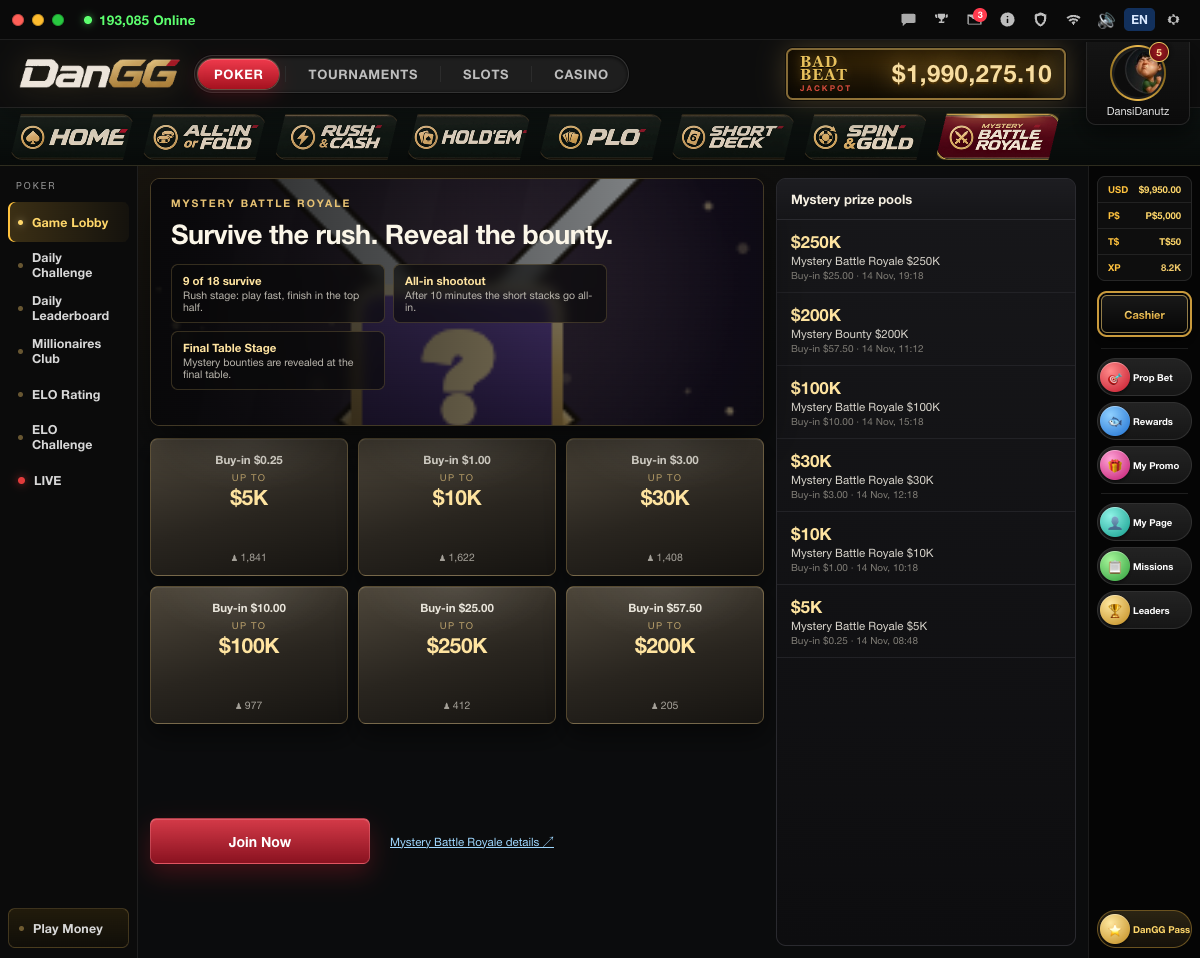
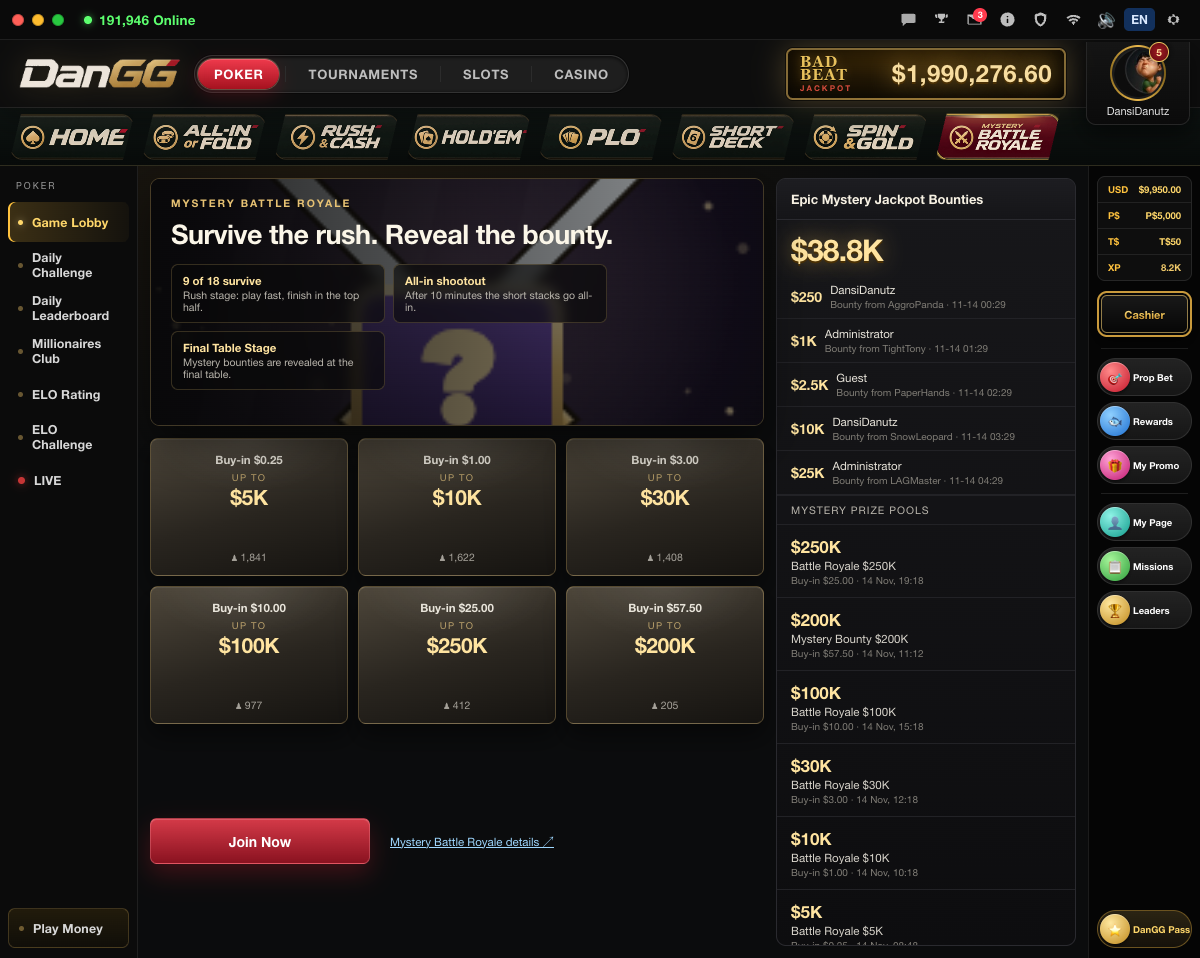
feat(battle): live mystery bounty feed
- GET /api/mystery/feed exposes recent mystery_bounty ledger rows (winner, amount,
  busted player, time) and the all-time total.
- Battle Royale right rail becomes Epic Mystery Jackpot Bounties: total pot + reveal
  rows, with the prize-pool schedule kept underneath; empty state shows pools only.
- New HTTP test for the endpoint; evidence with five seeded reveals at 768/1200/1440.
- 865 tests / 865 pass, tsc and Vite build clean.

diff --git a/app/src/components/BattleLobby.tsx b/app/src/components/BattleLobby.tsx
@@ -12,11 +12,16 @@ const NOTES = [
 export function BattleLobby() {
   const { navigate } = useApp();
   const [events, setEvents] = useState<any[] | null>(null);
+  const [feed, setFeed] = useState<{ total: number; items: any[] }>({ total: 0, items: [] });
 
   useEffect(() => {
     api.tournaments()
       .then((r) => setEvents((r.tournaments || []).filter((t: any) => String(t.mode).toUpperCase() === 'MYSTERY' || /mystery/i.test(t.name))))
       .catch(() => setEvents([]));
+  }, []);
+
+  useEffect(() => {
+    api.mysteryFeed().then(setFeed).catch(() => {});
   }, []);
 
   const groups = useMemo(() => {
@@ -69,7 +74,20 @@ export function BattleLobby() {
       </div>
 
       <aside className="battle-side">
-        <div className="battle-side-head">Mystery prize pools</div>
+        <div className="battle-side-head">Epic Mystery Jackpot Bounties</div>
+        <div className="battle-total">{money(feed.total || 0, true)}</div>
+        {!!feed.items.length && (
+          <div className="battle-feed">
+            {feed.items.map((it, i) => (
+              <div key={i} className="battle-feed-row">
+                <b>{money(it.amount, true)}</b>
+                <span>{it.nick}</span>
+                <small>Bounty from {String(it.memo || '').replace(/^Mystery bounty:\s*/i, '')} · {String(it.created_at).slice(5, 16).replace('T', ' ')}</small>
+              </div>
+            ))}
+          </div>
+        )}
+        <div className="battle-side-sub">Mystery prize pools</div>
         {top.map((t) => (
           <button key={t.id} type="button" className="battle-pool" onClick={() => navigate(`/tournaments?id=${encodeURIComponent(t.id)}`)}>
             <b>{money(t.gtd || 0, true)}</b>

diff --git a/app/src/battle.css b/app/src/battle.css
@@ -33,3 +33,11 @@
 .battle-pool small { color: #7f7c75; font-size: 10px; }
 @media (max-width: 1180px) { .battle { grid-template-columns: minmax(0, 1fr) 250px; } }
 @media (max-width: 900px) { .battle { grid-template-columns: 1fr; grid-template-rows: auto; } .battle-side { grid-column: 1; grid-row: auto; max-height: 300px; } .battle-tiles { grid-template-columns: repeat(3, minmax(0, 1fr)); } }
+
+.battle-total { padding: 12px 14px 6px; color: #ffe4a0; font-size: 30px; font-weight: 900; letter-spacing: -.8px; text-shadow: 0 2px 0 #4a3004, 0 0 22px rgba(255, 202, 88, .45); }
+.battle-feed { display: flex; flex-direction: column; }
+.battle-feed-row { display: grid; grid-template-columns: auto minmax(0, 1fr); gap: 2px 8px; padding: 8px 14px; border-bottom: 1px solid #222226; }
+.battle-feed-row b { color: #ffe4a0; font-size: 14px; font-weight: 900; grid-row: 1 / span 2; align-self: center; }
+.battle-feed-row span { color: #e8e4da; font-size: 11.5px; overflow: hidden; text-overflow: ellipsis; white-space: nowrap; }
+.battle-feed-row small { color: #7f7c75; font-size: 10px; }
+.battle-side-sub { position: sticky; top: 41px; z-index: 1; padding: 8px 14px; color: #b9b5ac; font-size: 10.5px; text-transform: uppercase; letter-spacing: 1px; background: #131316; border-block: 1px solid #222226; }

diff --git a/app/src/lib/api.ts b/app/src/lib/api.ts
@@ -292,6 +292,7 @@ export const api = {
   unregisterTourney: (id: string) => request(`/api/tournaments/${id}/unregister`, { method: 'POST' }),
   cashier: () => request<any>('/api/cashier'),
   notifications: (all = false) => request<{ items: any[]; unread: number }>(`/api/notifications${all ? '?all=1' : ''}`),
+  mysteryFeed: () => request<{ total: number; items: any[] }>('/api/mystery/feed'),
   elo: (game: string = 'all') => request<{ leaders: any[]; me: any; game: string }>(`/api/elo${game === 'all' ? '' : '?game=' + encodeURIComponent(game)}`),
   reportPlayer: (targetId: number, reason: string, detail: string, handId?: string) => request<any>('/api/reports', { method: 'POST', body: JSON.stringify({ targetId, reason, detail, handId }) }),
   markNotificationsRead: (keys: string[]) => request<any>('/api/notifications/read', { method: 'POST', body: JSON.stringify({ keys }) }),

diff --git a/app/server/index.js b/app/server/index.js
@@ -1934,6 +1934,17 @@ const server = http.createServer(async (req, res) => {
       return json(res, 200, { winners: rows, mine });
     }
 
+    if (p === '/api/mystery/feed' && req.method === 'GET') {
+      const limit = Math.min(30, Math.max(1, Number(url.searchParams.get('limit')) || 20));
+      const items = db.prepare(`
+        SELECT t.amount, t.memo, t.created_at, u.nick
+        FROM transactions t JOIN users u ON u.id = t.user_id
+        WHERE t.kind = 'mystery_bounty'
+        ORDER BY t.id DESC LIMIT ?`).all(limit);
+      const total = db.prepare("SELECT COALESCE(SUM(amount), 0) AS n FROM transactions WHERE kind = 'mystery_bounty'").get().n;
+      return json(res, 200, { total, items });
+    }
+
     if (p === '/api/games/slot' && req.method === 'POST') {
       const u = requireUser(req, res); if (!u) return;
       const body = await readBody(req);

diff --git a/app/server/http.test.js b/app/server/http.test.js
@@ -680,3 +680,16 @@ test('notification history keeps read items when ?all=1 and clears the unread fe
     fs.rmSync(data, { recursive: true, force: true });
   }
 });
+
+test('mystery bounty feed reports a total and an empty list on a fresh room', async () => {
+  const { child, port, data } = await startServer();
+  try {
+    const feed = await fetch(`http://127.0.0.1:${port}/api/mystery/feed`).then((r) => r.json());
+    assert.equal(feed.total, 0);
+    assert.ok(Array.isArray(feed.items));
+    assert.equal(feed.items.length, 0);
+  } finally {
+    child.kill();
+    fs.rmSync(data, { recursive: true, force: true });
+  }
+});

diff --git a/docs/designs/2026-11-14-mystery-bounty-feed.md b/docs/designs/2026-11-14-mystery-bounty-feed.md
@@ -1,0 +1,29 @@
+# Live mystery bounty feed
+
+Reference: `docs/screenshots/desk-pass/compare-battle.png` (right rail).
+Closes the gap noted in `2026-11-14-mystery-battle-royale.md`.
+
+## What changed
+
+- **`GET /api/mystery/feed`** returns the latest mystery-bounty payouts (winner nick,
+  amount, busted player from the ledger memo, timestamp) plus the all-time total. It reads
+  the real `transactions` rows written when a Mystery Battle Royale bounty is paid, so the
+  feed is live, not fabricated.
+- The Battle Royale right rail is now **“Epic Mystery Jackpot Bounties”** with the total
+  pot at the top and the reveal rows beneath, followed by the existing prize-pool
+  schedule under a "Mystery prize pools" sub-header.
+- Empty state keeps the prize pools visible (no fake names when nothing has been paid).
+- New HTTP test covers the endpoint shape on a fresh room (`total: 0`, `items: []`).
+
+## Verification
+
+- Screenshot with five seeded reveals in the dev DB: total **$38.8K**, winners
+  DanSiDanutz/Administrator/Guest with “Bounty from …” and timestamps
+  (`docs/screenshots/battle/1200-battle.png`, 768/1440 too).
+- **865 tests / 865 pass** (new mystery feed test), `tsc --noEmit`, Vite build clean.
+
+## Remaining
+
+The reference also shows the buy-in on each reveal row; the ledger row carries the
+bounty amount and the busted player, not the tournament buy-in. Adding `tournament_id`
+to the bounty transaction would allow that column later.

diff --git a/CHANGELOG.md b/CHANGELOG.md
@@ -1,3 +1,10 @@
+## 2026-11-14 — live mystery bounty feed
+
+- GET /api/mystery/feed returns recent mystery-bounty payouts + all-time total from the
+  real ledger; Battle Royale right rail shows “Epic Mystery Jackpot Bounties”.
+- Prize-pool schedule stays below the feed; empty state never invents winners.
+- New HTTP test covers the endpoint.
+
 ## 2026-11-14 — CI stability + table seat flags
 
 - Quick-fold socket test polls for up to 60s (was 20s) with a 150s timeout, removing the
